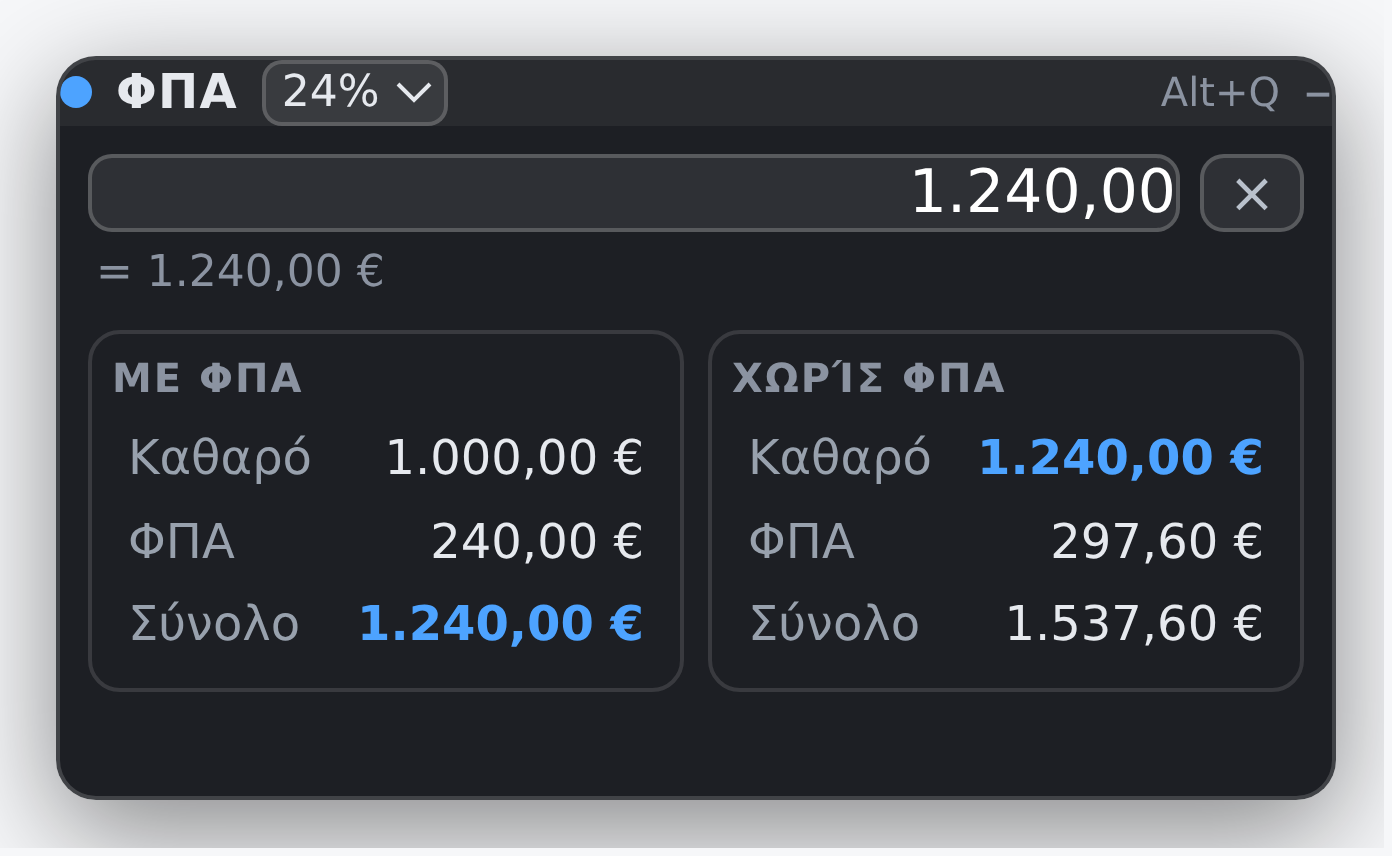
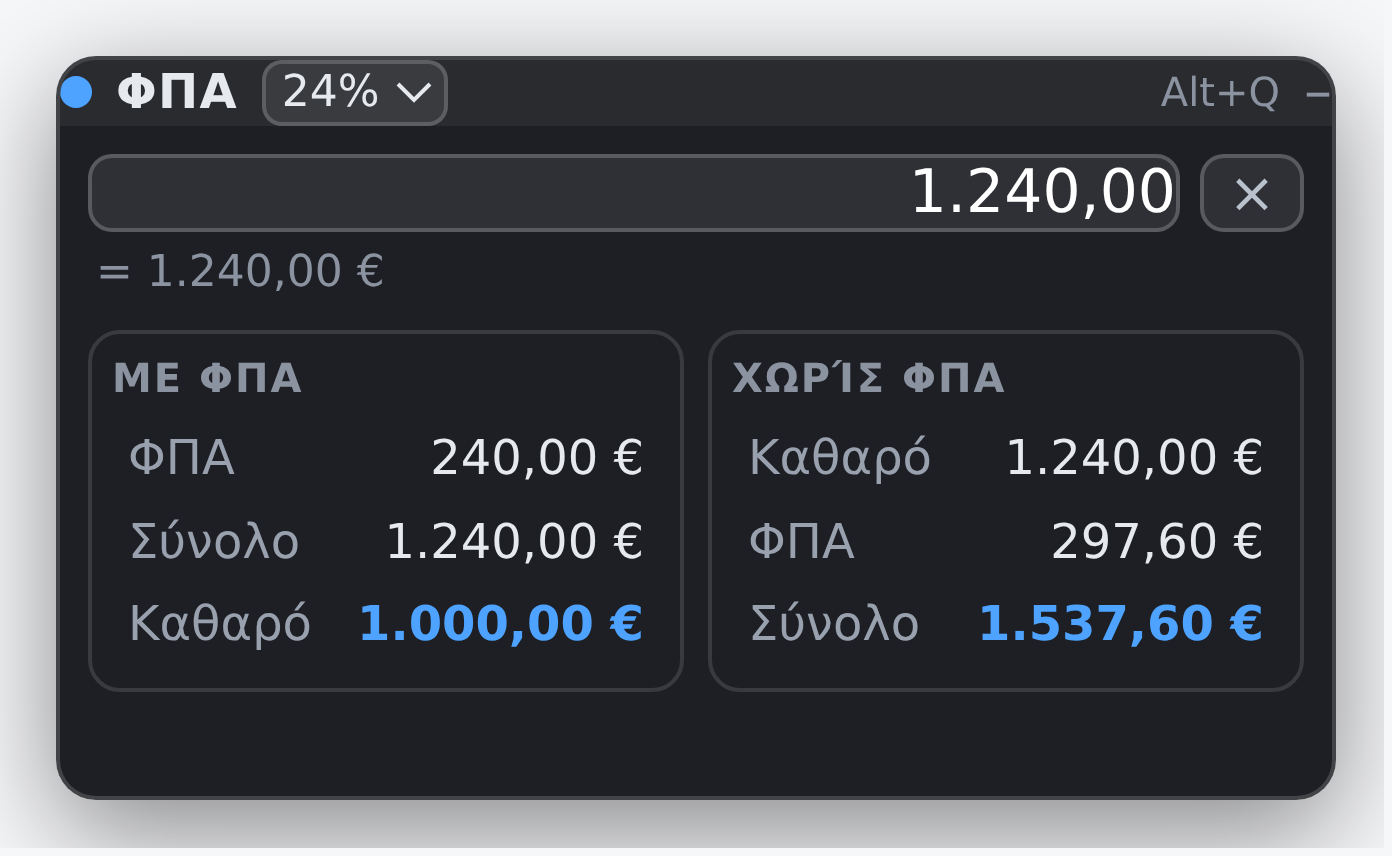
feat: blue highlight marks the result row in each column
Left column (με ΦΠΑ) reordered to ΦΠΑ / Σύνολο / Καθαρό with the net
highlighted at the bottom; right column keeps its order with Σύνολο
highlighted. The amount you typed is no longer highlighted.

diff --git a/greek-vat-calc.user.js b/greek-vat-calc.user.js
@@ -2,7 +2,7 @@
 // @name         ΦΠΑ quick calculator (Greek VAT 24/13/6/4%)
 // @name:en      Greek VAT quick calculator
 // @namespace    axynos.local.fpa
-// @version      1.0.0
+// @version      1.1.0
 // @description  Μικρή αριθμομηχανή ΦΠΑ κάτω δεξιά σε κάθε σελίδα: γράψε ένα ποσό και βλέπεις αμέσως Καθαρό / ΦΠΑ / Σύνολο (και με τους δύο τρόπους). Alt+Q εστιάζει το πεδίο, κλικ σε μια τιμή την αντιγράφει.
 // @author       Anastasios Xynos (tasosxynos)
 // @license      MIT
@@ -158,9 +158,9 @@
         <div class="grid">
           <section class="col">
             <h4>με ΦΠΑ</h4>
-            <div class="row" data-k="wnet"><span class="lab">Καθαρό</span><span class="val" id="wNet">—</span></div>
             <div class="row" data-k="wvat"><span class="lab">ΦΠΑ</span><span class="val" id="wVat">—</span></div>
             <div class="row" data-k="wtot"><span class="lab">Σύνολο</span><span class="val" id="wTot">—</span></div>
+            <div class="row" data-k="wnet"><span class="lab">Καθαρό</span><span class="val" id="wNet">—</span></div>
           </section>
           <section class="col">
             <h4>χωρίς ΦΠΑ</h4>
@@ -177,9 +177,12 @@
   const $ = (id) => sh.getElementById(id);
   const wrap = sh.querySelector('.wrap');
   const amt = $('amt'), rateSel = $('rate'), parsedEl = $('parsed');
-  const eq = (a, b) => Math.abs(r2(a) - r2(b)) < 0.005;
+  // η μπλε γραμμή = το ζητούμενο ποσό κάθε στήλης:
+  //  αριστερά (το ποσό είναι με ΦΠΑ)  → Καθαρό (αφαιρείται ο ΦΠΑ)
+  //  δεξιά    (το ποσό είναι χωρίς ΦΠΑ) → Σύνολο (προστίθεται ο ΦΠΑ)
+  const HIGHLIGHT = new Set(['wnet', 'ntot']);
   const CELLS = [
-    ['wNet', 'wnet'], ['wVat', 'wvat'], ['wTot', 'wtot'],
+    ['wVat', 'wvat'], ['wTot', 'wtot'], ['wNet', 'wnet'],
     ['nNet', 'nnet'], ['nVat', 'nvat'], ['nTot', 'ntot'],
   ];
   let current = {};
@@ -208,7 +211,7 @@
     for (const [id, key] of CELLS) {
       const el = $(id);
       el.textContent = fmtEUR(current[key]);
-      el.parentElement.classList.toggle('hit', eq(current[key], v));   // η τιμή που έγραψες
+      el.parentElement.classList.toggle('hit', HIGHLIGHT.has(key));
     }
   }
 

diff --git a/README.md b/README.md
@@ -22,9 +22,9 @@ Future versions install themselves: `@updateURL` / `@downloadURL` point at this 
 |---|---|
 | Panel | fixed bottom-right on every http(s) page, draggable by its header, collapsible to a pill |
 | Input | type any amount; both readings are shown at once, no mode switching |
-| Left column | the amount is **με ΦΠΑ** (gross) → Καθαρό + ΦΠΑ |
-| Right column | the amount is **χωρίς ΦΠΑ** (net) → ΦΠΑ + Σύνολο |
-| Highlight | the figure you typed is highlighted in blue in both columns |
+| Left column | the amount is **με ΦΠΑ** (gross) → `ΦΠΑ`, `Σύνολο`, then the **`Καθαρό`** you are extracting (blue, bottom row) |
+| Right column | the amount is **χωρίς ΦΠΑ** (net) → `Καθαρό`, `ΦΠΑ`, then the **`Σύνολο`** you are adding up (blue, bottom row) |
+| Highlight | always the result row at the bottom of each column — never the amount you typed |
 | Copy | click any of the six values to copy it as `1234,56` (comma decimal, no symbol) |
 | Rate | selector in the header: 24% (default) / 13% / 6% / 4% |
 | Memory | position, rate and folded state are remembered across pages and sessions |
